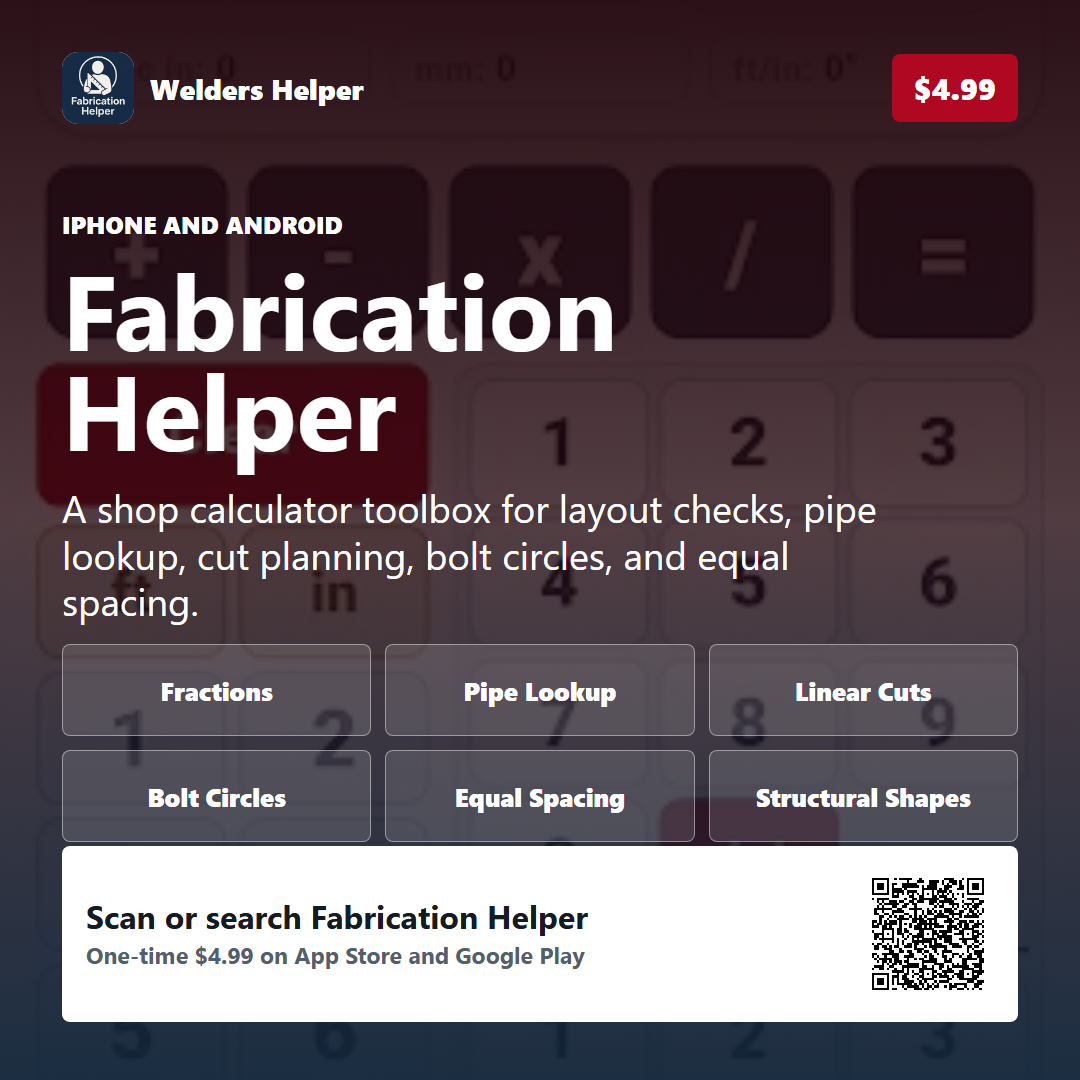
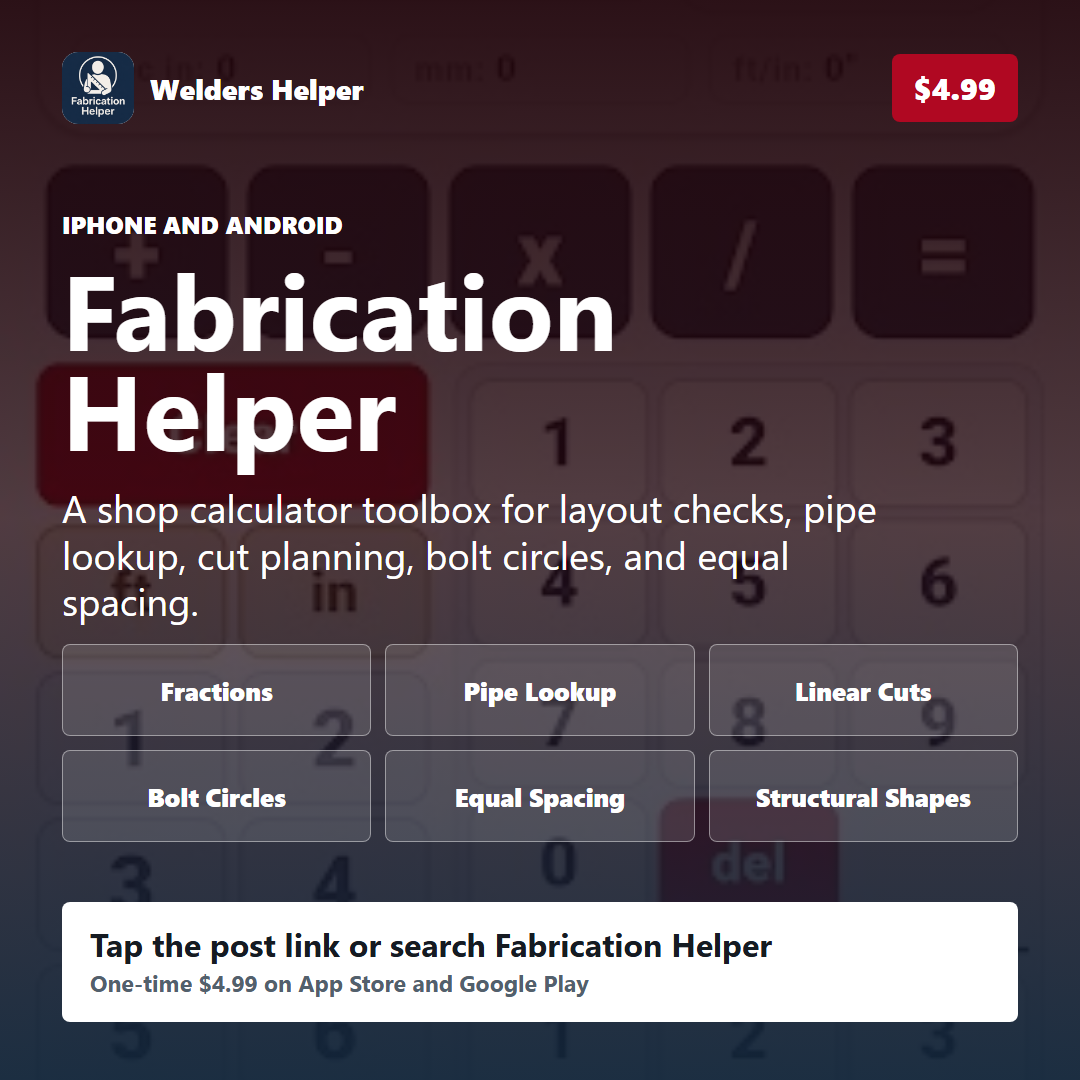
Make Fabrication Helper social promo click-first

Changed region(s): [[0.0306, 0.7639, 0.9472, 0.9167]]

diff --git a/promo/fabrication-helper-social-square.html b/promo/fabrication-helper-social-square.html
@@ -134,10 +134,9 @@
       right: 62px;
       bottom: 58px;
       display: grid;
-      grid-template-columns: 1fr auto;
-      gap: 28px;
+      gap: 8px;
       align-items: center;
-      padding: 22px 24px;
+      padding: 24px 28px;
       border-radius: 8px;
       background: #ffffff;
       color: var(--ink);
@@ -155,12 +154,6 @@
       color: #52606c;
       font-size: 23px;
       font-weight: 700;
-    }
-
-    .qr {
-      width: 132px;
-      height: 132px;
-      image-rendering: pixelated;
     }
   </style>
 </head>
@@ -191,10 +184,9 @@
 
     <section class="cta">
       <div>
-        <strong>Scan or search Fabrication Helper</strong>
+        <strong>Tap the post link or search Fabrication Helper</strong>
         <span>One-time $4.99 on App Store and Google Play</span>
       </div>
-      <img class="qr" src="../assets/promo/fabrication-helper-qr.png" alt="QR code for Fabrication Helper app page">
     </section>
   </main>
 </body>

diff --git a/promo/fabrication-helper-post-pack.md b/promo/fabrication-helper-post-pack.md
@@ -4,7 +4,16 @@ Canonical promo URL:
 
 `https://demigodofa.github.io/privacy-policy/apps.html`
 
-QR-tracked URL:
+Phone/social tracked URL:
+
+`https://demigodofa.github.io/privacy-policy/apps.html?utm_source=social&utm_medium=post&utm_campaign=fabrication_helper_499`
+
+Direct store links:
+
+- App Store: `https://apps.apple.com/us/app/fabrication-helper/id6767084499`
+- Google Play: `https://play.google.com/store/apps/details?id=com.weldershelper.fabricationhelper&referrer=utm_source%3Dsocial%26utm_medium%3Dpost%26utm_campaign%3Dfabrication_helper_499`
+
+QR-tracked URL for printed flyers:
 
 `https://demigodofa.github.io/privacy-policy/apps.html?utm_source=flyer&utm_medium=qr&utm_campaign=fabrication_helper_499`
 
@@ -12,7 +21,7 @@ QR-tracked URL:
 
 I put my Fabrication Helper app on iPhone and Android. It is a one-time $4.99 shop calculator toolbox for fractions, pipe lookup, structural shapes, linear cut planning, bolt circles, and equal spacing:
 
-https://demigodofa.github.io/privacy-policy/apps.html
+https://demigodofa.github.io/privacy-policy/apps.html?utm_source=text&utm_medium=message&utm_campaign=fabrication_helper_499
 
 ## Facebook / Local Trade Group
 
@@ -30,7 +39,13 @@ Fabrication Helper is available for iPhone and Android. It is a one-time $4.99 t
 It is local-first, with no account, subscription, ads, or cloud sync in the current release.
 
 App links:
-https://demigodofa.github.io/privacy-policy/apps.html
+https://demigodofa.github.io/privacy-policy/apps.html?utm_source=social&utm_medium=post&utm_campaign=fabrication_helper_499
+
+App Store:
+https://apps.apple.com/us/app/fabrication-helper/id6767084499
+
+Google Play:
+https://play.google.com/store/apps/details?id=com.weldershelper.fabricationhelper&referrer=utm_source%3Dsocial%26utm_medium%3Dpost%26utm_campaign%3Dfabrication_helper_499
 
 ## LinkedIn
 
@@ -40,7 +55,7 @@ It is a one-time $4.99 fabrication calculator and reference toolbox built for qu
 
 The current release is local-first: no account, no subscription, no ads, and no cloud sync.
 
-https://demigodofa.github.io/privacy-policy/apps.html
+https://demigodofa.github.io/privacy-policy/apps.html?utm_source=linkedin&utm_medium=post&utm_campaign=fabrication_helper_499
 
 ## Shop Counter / Invoice Line
 

diff --git a/promo/README.md b/promo/README.md
@@ -11,9 +11,9 @@ Public app hub:
 - `fabrication-helper-flyer.html`
   - printable letter flyer source
 - `fabrication-helper-social-square.html`
-  - 1080x1080 square social/share image source
+  - 1080x1080 click-first square social/share image source
 - `fabrication-helper-post-pack.md`
-  - copy/paste post text for text messages, Facebook/local trade groups, LinkedIn, shop counter/invoice line, and flyer captions
+  - copy/paste post text for text messages, Facebook/local trade groups, LinkedIn, shop counter/invoice line, flyer captions, and direct store links
 
 ## Generated Public Assets
 
@@ -22,9 +22,9 @@ Public app hub:
 - `../assets/promo/fabrication-helper-flyer-preview.png`
   - PNG preview of the flyer
 - `../assets/promo/fabrication-helper-social-square.png`
-  - square image for Facebook, texts, and general sharing
+  - square image for Facebook, texts, and general sharing; no QR because phone/social viewers need clickable post links
 - `../assets/promo/fabrication-helper-qr.png`
-  - QR code pointing at the app hub with flyer UTM tagging
+  - QR code pointing at the app hub with flyer UTM tagging for printed material
 
 Public URLs:
 
